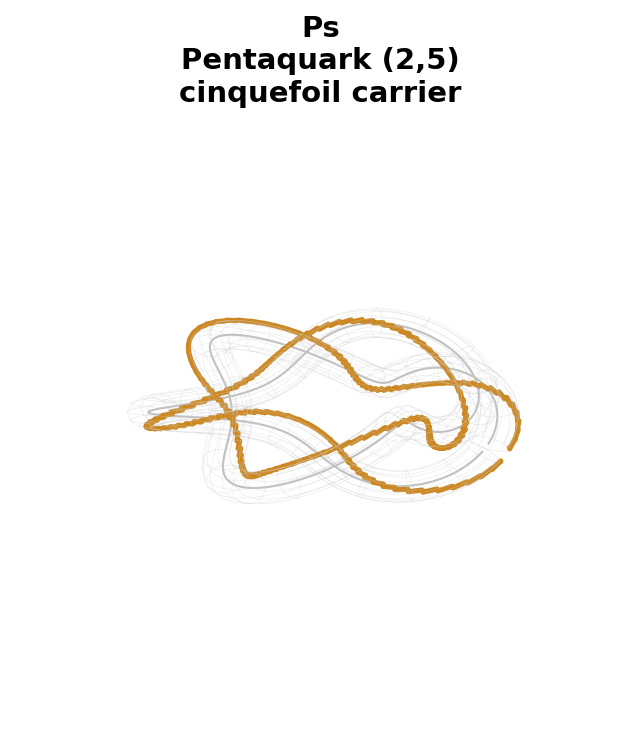
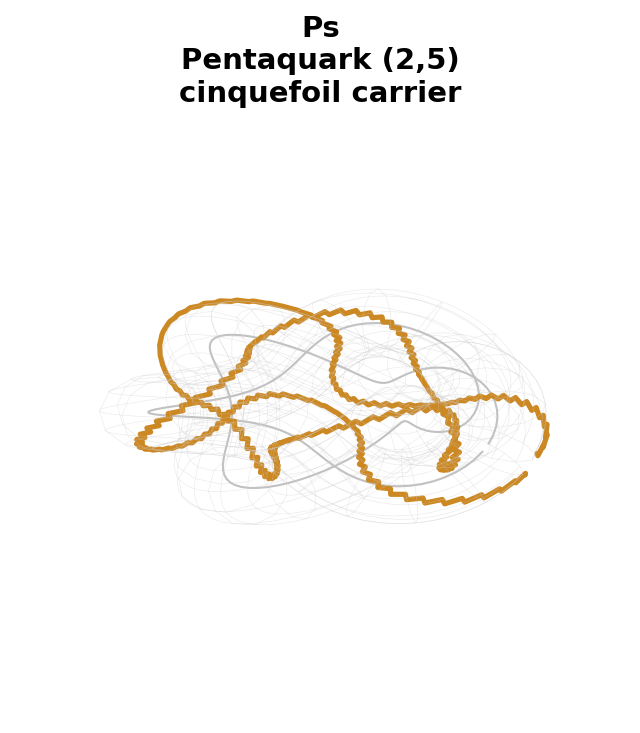
Knot viz v5: fat trefoil/cinquefoil tubes — poloidal winding visible
Increased knotted carrier tube radius from 0.15 to 0.35 so the
poloidal spiral is dramatically visible:

  Proton (1,4): 4 tight oscillations around the trefoil tube ✓
  J/ψ (2,3): 3 medium oscillations on trefoil ✓
  Pentaquark (2,5): 5 wild oscillations on cinquefoil ✓

The contrast between smooth electron (q=1) and tightly wound
proton (q=4) now clearly shows the different physics.

Changed region(s): [[0.1875, 0.3902, 0.875, 0.6903]]

diff --git a/docs/compendium/knot_viz.py b/docs/compendium/knot_viz.py
@@ -148,7 +148,7 @@ def render_particle(carrier_type, p_res, q_res, symbol, label,
         p_k = 2
         q_k = 3 if carrier_type == 'trefoil' else 5
         a = 0.35 if carrier_type == 'trefoil' else 0.30
-        r_tube = 0.15
+        r_tube = 0.35  # fat tube so poloidal spiral is visible
 
         X, Y, Z, center = knot_tube_wireframe(
             p_k, q_k, R, a, r_tube, N_arc=200, N_circ=12)
@@ -255,12 +255,12 @@ def render_gallery():
         elif carrier in ('trefoil', 'cinquefoil'):
             q_k = 3 if carrier == 'trefoil' else 5
             a = 0.35 if carrier == 'trefoil' else 0.30
-            X, Y, Z, ctr = knot_tube_wireframe(2, q_k, R, a, 0.15, 150, 10)
+            X, Y, Z, ctr = knot_tube_wireframe(2, q_k, R, a, 0.35, 150, 14)
             ax.plot_wireframe(X, Y, Z, color='#cccccc', linewidth=0.2,
                               alpha=0.35)
             ax.plot(ctr[0], ctr[1], ctr[2], color='#999999', linewidth=0.8,
                     alpha=0.5)
-            rx, ry, rz = resonance_on_knot_tube(ctr, p, q, 0.15, 1200)
+            rx, ry, rz = resonance_on_knot_tube(ctr, p, q, 0.35, 1200)
             ax.plot(rx, ry, rz, color=color, linewidth=2.0)
 
         elif carrier == 'hopf':
